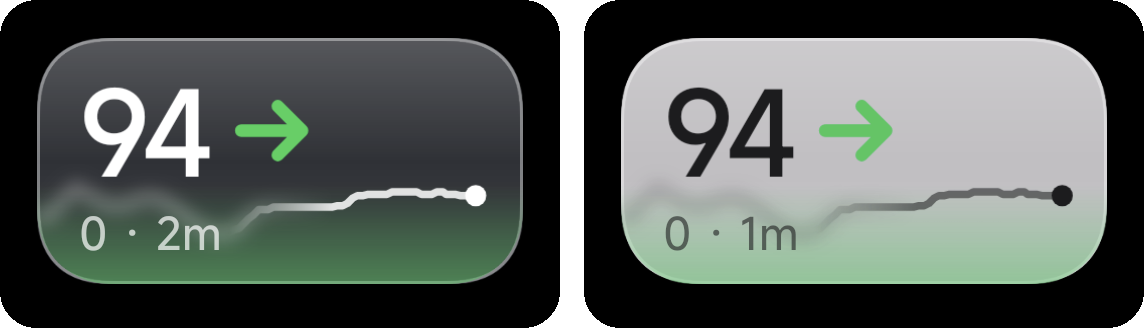
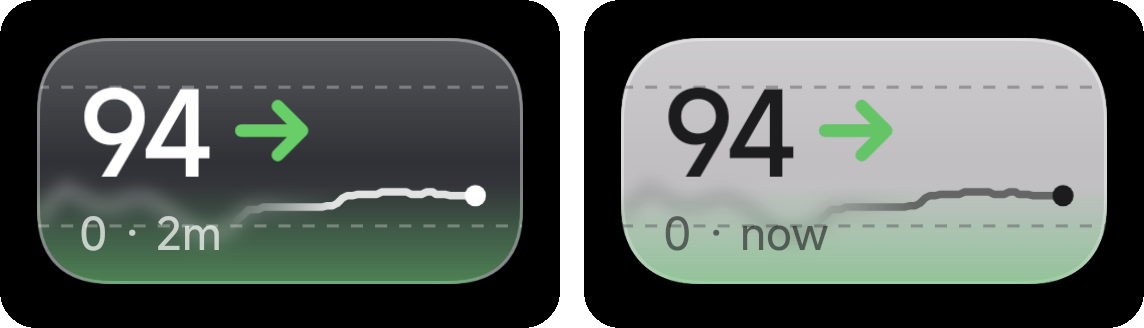
Show the target range lines in the screenshots

diff --git a/README.md b/README.md
@@ -3,7 +3,7 @@
 A tiny Android app that shows your glucose from **Nightscout** as a glass-style home screen widget, a persistent notification and a number in the status bar. Nothing else.
 
 <p align="center">
-  <img src="docs/widgets.png" width="760" alt="The widget in dark and light mode: glucose value and trend arrow over a 3-hour line that blurs behind the number, with a green glow for in range">
+  <img src="docs/widgets.png" width="760" alt="The widget in dark and light mode: glucose value and trend arrow over a 3-hour line that blurs behind the number, dashed target range lines and a green glow for in range">
 </p>
 
 <h3 align="center"><a href="https://github.com/federicomameli1/sugarglass/releases/latest/download/sugarglass.apk">⬇ Download Sugarglass for Android</a></h3>
